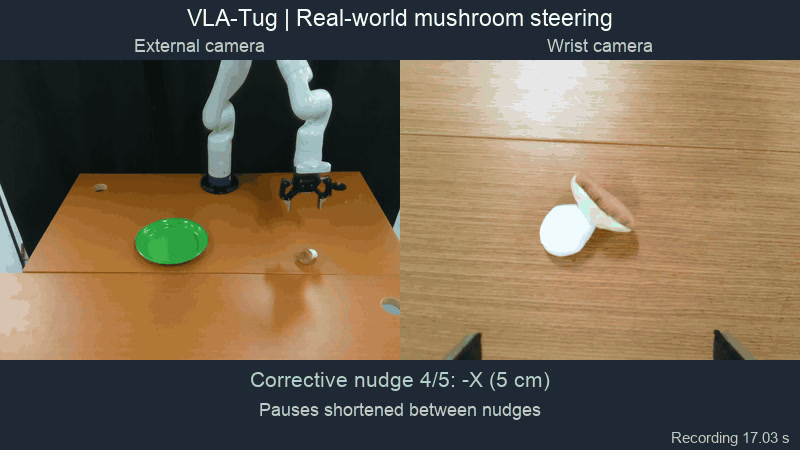
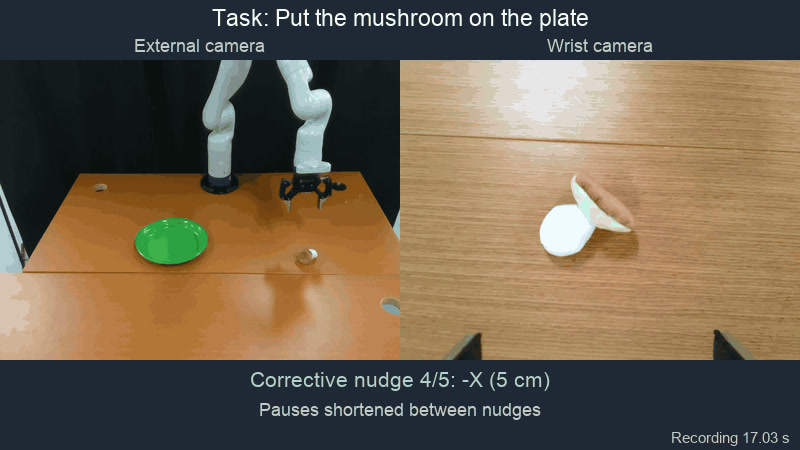
vla-tug gifs

Changed region(s): [[0.2188, 0.0, 0.7812, 0.0622]]

diff --git a/images/projects/README.md b/images/projects/README.md
@@ -37,3 +37,5 @@ GIFs use real project footage; the JPEGs remain as static fallbacks. Reduced-mot
 `vla-tug.gif` uses the first 10 seconds of the agent and wrist videos at https://vla-tug.github.io/media/rollouts/ep2/ (640 × 360, 10 fps). The monitoring/alarm label follows the episode metadata: alarm step 11 × 0.4 seconds = 4.4 seconds, wrong-object failure. `vla-tug-demo.jpg` is its reduced-motion fallback.
 
 `vla-tug-mushroom.gif` and its JPEG fallback use synchronized external (`/cameras/925622071555`) and wrist (`/cameras/onboard`) camera frames from the user-provided `mushroom_steer_probe.rrd`. The preview includes the failure prediction (93.2%, 1.317 s), all five logged corrective nudges (+Y 6.49 s, -Z 9.87 s, -Z 13.56 s, -X 16.94 s, +X 19.25 s), policy restart (25.65 s), and grasp/placement. Camera sampling is sparse while paused; recorded nudge frames are retained, waits between corrections are shortened and explicitly labeled, and recording timestamps remain visible. No missing motion is synthesized. Output: 800 × 450, 10 fps.
+
+The mushroom preview displays the user-confirmed instruction “Task: Put the mushroom on the plate” throughout playback.
